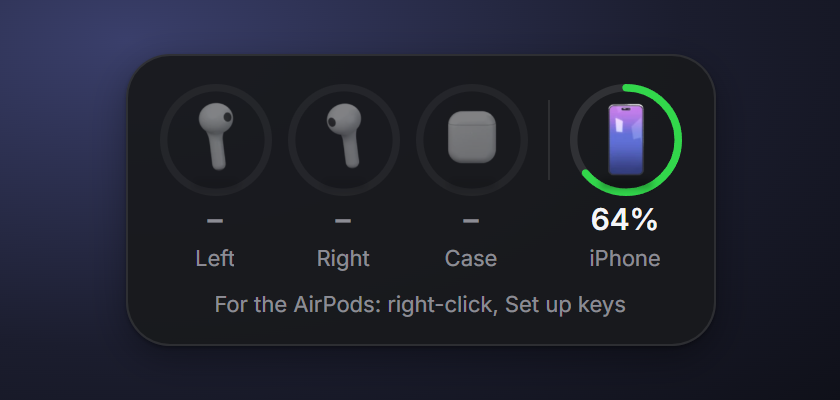
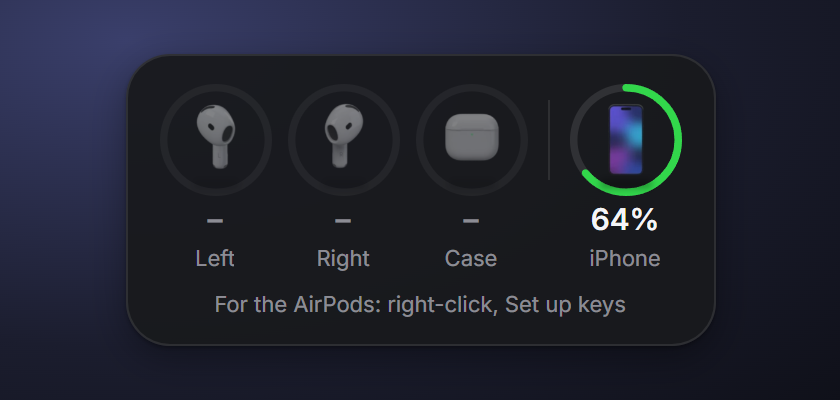
feat: render the real AirPods 4 and iPhone 14 Pro models
Both are CC BY 4.0 models from Sketchfab, credited in the README. The rendered
images are shared under CC BY 4.0; the model files stay out of the repo.

diff --git a/tools/render-models/render_models.py b/tools/render-models/render_models.py
@@ -10,8 +10,10 @@ them into the sprite strips the widget plays; frame 0 and the last frame both
 show the front.
 
 Without the model files the devices are built from primitives here. With them,
-the downloaded AirPods 4 (FBX) and iPhone 14 Pro (glTF converted from the
-Sketchfab COLLADA, plus its PBR texture folder) are rendered instead.
+these Sketchfab models (both CC BY 4.0) are rendered instead:
+  "AirPods 4" by Falah3D, sketchfab.com/3d-models/airpods-4-e44730974131402eb496352cab19c82e (FBX)
+  "iPhone 14 Pro" by mister dude, sketchfab.com/3d-models/iphone-14-pro-5cb0778041a34f09b409a38c687bb1d4
+  (its COLLADA converted to glTF, plus its PBR texture folder)
 """
 import argparse
 import math

diff --git a/README.md b/README.md
@@ -153,7 +153,7 @@ Add the name exactly as the widget shows it to `hiddenDevices`, e.g.
 | Decrypt the last 16 bytes with AES-128 and `MagicAccEncKey`, match the random address with `MagicAccIRK` | `src-tauri/src/airpods.rs` |
 | Battery levels Windows knows: PnP property `{104EA319-6EE2-4701-BD47-8DDBF425BBE5} 2` on `BTHLE\DEV_*` | `src-tauri/src/device_battery.rs` |
 | Widget UI | `src/` (Vue 3, Tailwind 4) |
-| 3D models: built from primitives and rendered as a full turn in Blender | `tools/render-models/` |
+| 3D models: rendered as a full turn in Blender, see [Credits](#credits) | `tools/render-models/` |
 
 Built with [Tauri 2](https://tauri.app), Rust and Vue 3.
 
@@ -169,24 +169,42 @@ cd src-tauri && cargo test
 npm run tauri build   # installer in src-tauri/target/release/bundle/nsis
 ```
 
-The device models are rendered with Blender 5 (Cycles). To change one, edit
-`tools/render-models/render_models.py`, then:
+The device images are rendered with Blender 5 (Cycles) from the two models in
+[Credits](#credits). The model files are not in this repo; download them from
+Sketchfab first. Blender 5 no longer reads the iPhone's COLLADA file, so convert
+it to glTF once (e.g. with `trimesh`), then:
 
 ```sh
 cd tools/render-models
-blender --background --factory-startup --python render_models.py -- --model iphone --out <dir>/iphone
-python build_sprites.py <dir> ../../src/assets/devices   # needs all four models rendered
+python patch_iphone_screen.py <iphone>/textures <iphone>/textures-patched
+blender --background --factory-startup --python render_models.py -- --model iphone --out <dir>/iphone   --iphone-glb <iphone>/iphone.glb --iphone-textures <iphone>/textures-patched
+blender --background --factory-startup --python render_models.py -- --model airpods_case --out <dir>/airpods_case   --airpods-fbx "<airpods>/source/AirPods 4.fbx"
+# ... the same for airpod_left and airpod_right
+python build_sprites.py <dir> ../../src/assets/devices
 ```
+
+Without the model files, `render_models.py` falls back to simple models built
+from primitives.
 
 ## Credits
 
 - [LibrePods](https://github.com/librepods-org/librepods) worked out the
   encrypted battery layout this widget decodes.
-- The device models are our own, modelled in code in `tools/render-models/`.
+- **"[AirPods 4](https://sketchfab.com/3d-models/airpods-4-e44730974131402eb496352cab19c82e)"**
+  by [Falah3D](https://sketchfab.com/3dFalah), licensed under
+  [CC BY 4.0](https://creativecommons.org/licenses/by/4.0/).
+  Changed: split into left pod, right pod and case, case lid closed, rendered as a turn.
+- **"[iPhone 14 Pro](https://sketchfab.com/3d-models/iphone-14-pro-5cb0778041a34f09b409a38c687bb1d4)"**
+  by [mister dude](https://sketchfab.com/misterdude), licensed under
+  [CC BY 4.0](https://creativecommons.org/licenses/by/4.0/).
+  Changed: own wallpaper on the display, opacity map dropped, rendered as a turn.
+
+The rendered device images in `src/assets/devices/` and `docs/` are
+adaptations of these models and are shared under CC BY 4.0 as well.
 
 AirPods and iPhone are trademarks of Apple Inc. This project is not affiliated
 with Apple.
 
 ## License
 
-[GPL-3.0](LICENSE)
+Code: [GPL-3.0](LICENSE). Device images: CC BY 4.0, see [Credits](#credits).
